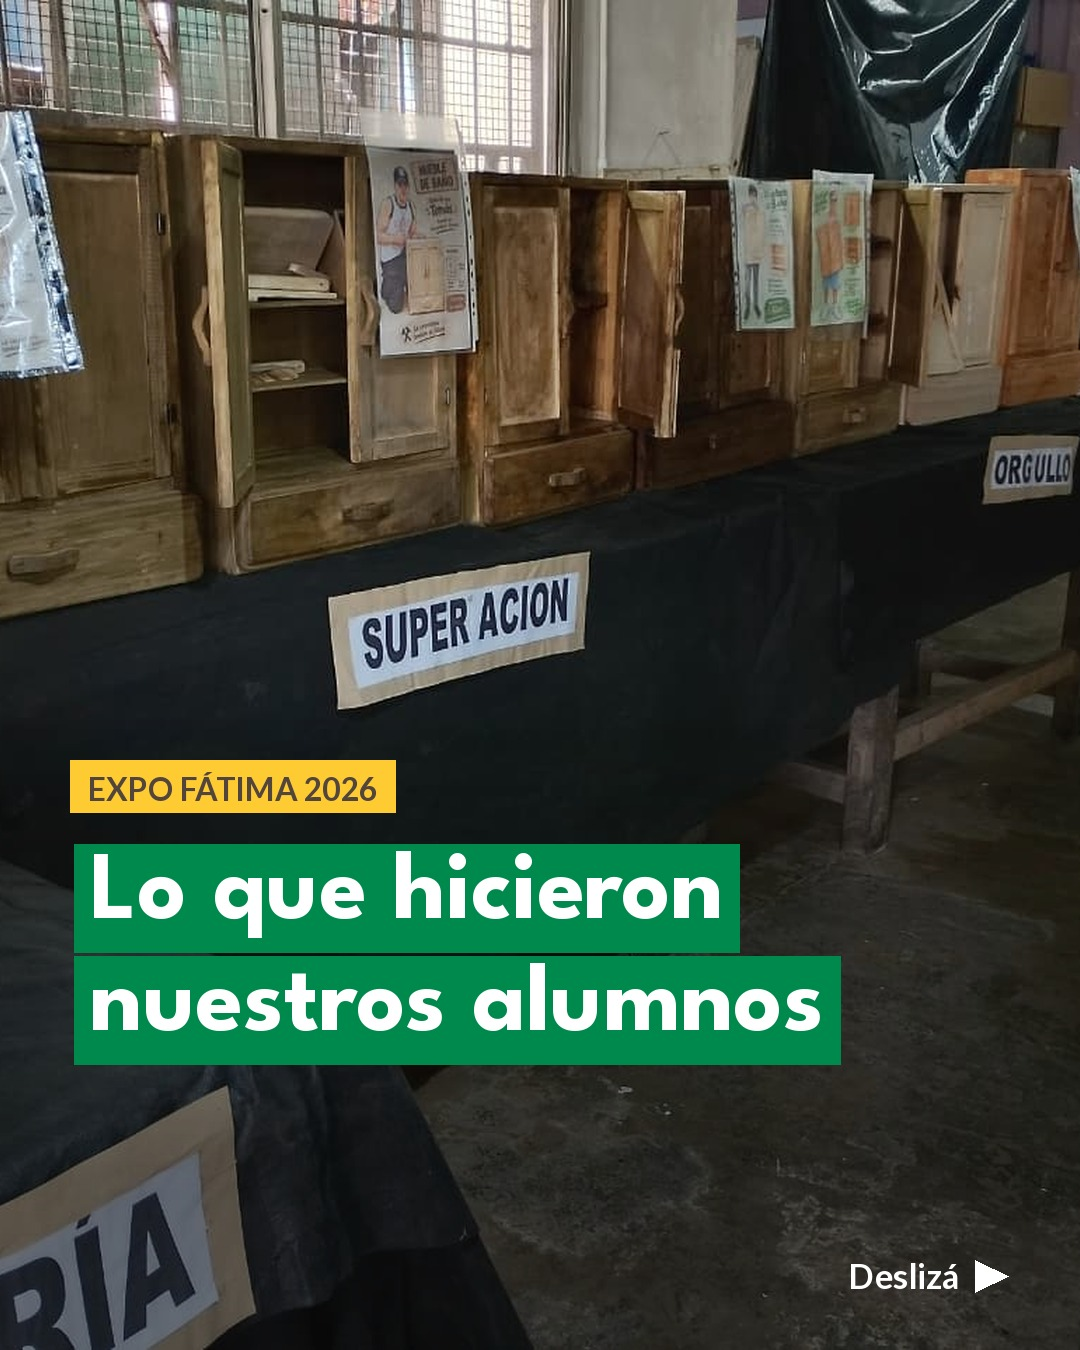
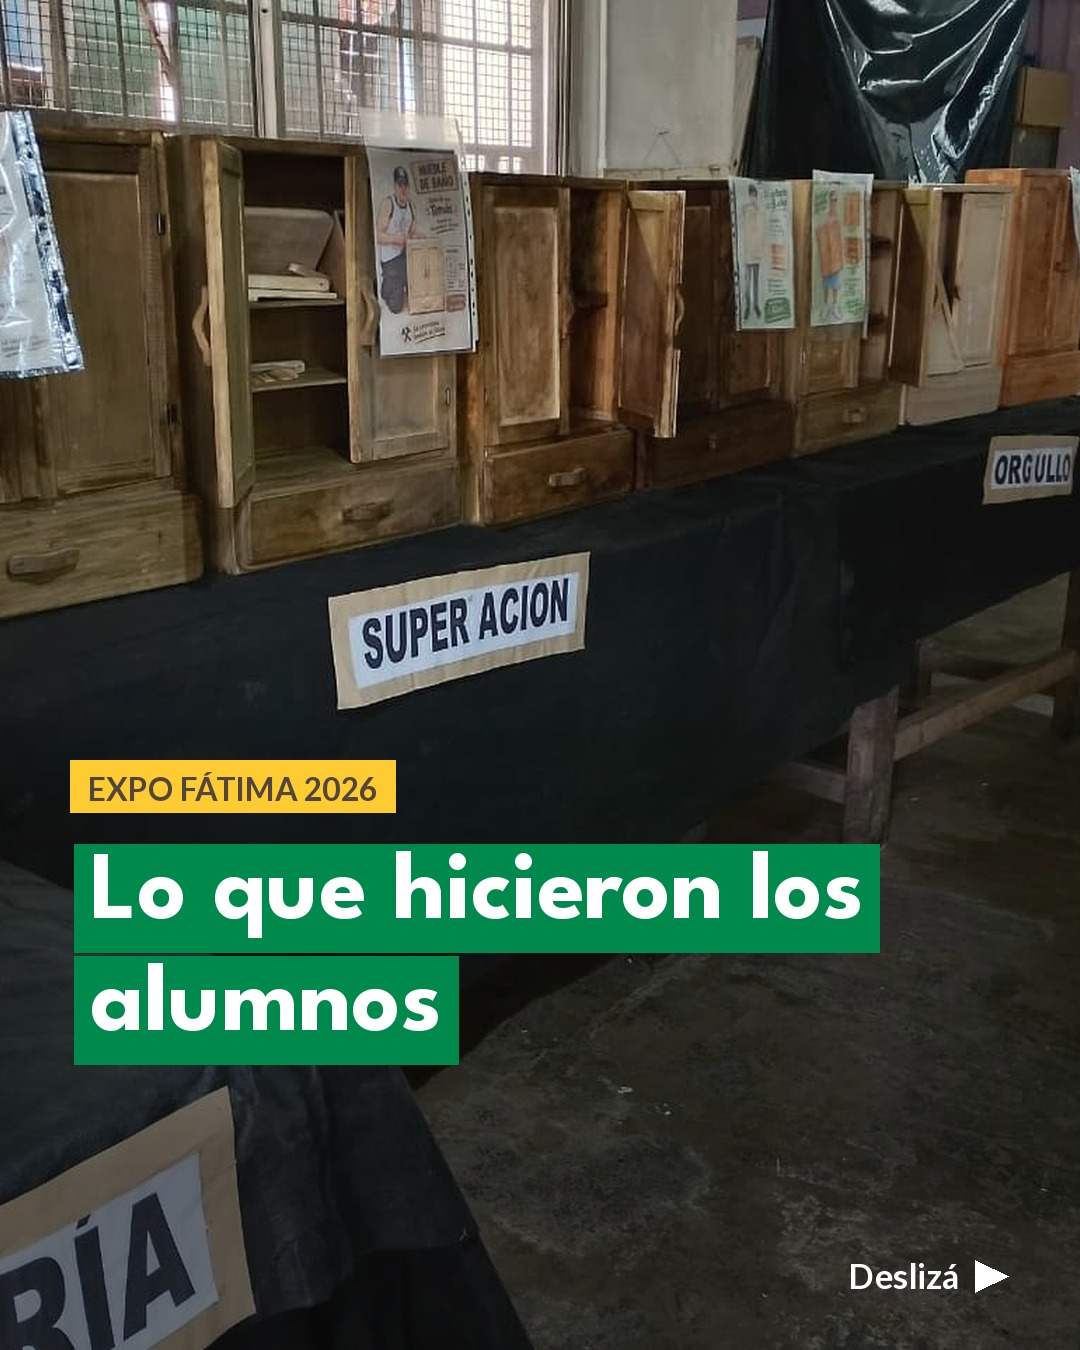
Fátima: cambios carrusel trabajos (los alumnos, sin Orgullo de Fátima)
Claude-Session: https://claude.ai/code/session_01A1E79ha6BujniUrQ7LXZ3T

Changed region(s): [[0.0917, 0.6222, 0.825, 0.8089]]

diff --git a/clientes/tallerfatima/plan/index.html b/clientes/tallerfatima/plan/index.html
@@ -63,7 +63,7 @@ footer a{color:var(--agua)}
     <div>
       <h1>Publicaciones para aprobar</h1>
       <p>Estas son las piezas preparadas para <strong>@escuelatallerfatima</strong>, con día, hora y texto. Están hechas con fotos y videos del banco de la escuela y con los colores y tipografías del manual de marca. <strong>Nada se publica sin aprobación.</strong> Lo que aprueben sale solo a la hora indicada.</p>
-      <div class="upd" id="upd">Última actualización: viernes 20/11/2026 · 16:55 h</div>
+      <div class="upd" id="upd">Última actualización: viernes 20/11/2026 · 23:25 h</div>
     </div>
     <aside class="how">
       <h2>Cómo aprobar</h2>

diff --git a/clientes/tallerfatima/herramientas/expo_semana.py b/clientes/tallerfatima/herramientas/expo_semana.py
@@ -32,14 +32,14 @@ def placa_polaroid(foto, frase, salida, n=None, ang=-3, centro=(0.5, 0.45)):
     c.save(salida, quality=92)
 
 # Viernes 20: trabajos de los alumnos
-a.portada(f"{E}/muebles-alumnos.jpg", "EXPO FÁTIMA 2026", "Lo que hicieron nuestros alumnos",
+a.portada(f"{E}/muebles-alumnos.jpg", "EXPO FÁTIMA 2026", "Lo que hicieron los alumnos",
           "Muebles, piezas y proyectos hechos en los talleres durante todo el año.", f"{O}/expo-trabajos-1.jpg")
 placa_polaroid(f"{C}/cuadro-040.0.jpg", "El taller de carpintería, abierto para todos.", f"{O}/expo-trabajos-2.jpg", "2/7", -3)
 placa_polaroid(f"{C}/cuadro-042.0.jpg", "Muebles terminados, listos para mostrar.", f"{O}/expo-trabajos-3.jpg", "3/7", 3)
 a.foto_con_texto(f"{E}/muestra-carpinteria-mesa.jpg", "Lámparas, macetas y estantes hechos a mano.", f"{O}/expo-trabajos-4.jpg", "4/7", (0.4, 0.4))
 placa_polaroid(f"{C}/cuadro-051.0.jpg", "Las máquinas del taller, en manos de los alumnos.", f"{O}/expo-trabajos-5.jpg", "5/7", -2)
 placa_polaroid(f"{C}/cuadro-053.0.jpg", "Profes y alumnos contando cómo se trabaja.", f"{O}/expo-trabajos-6.jpg", "6/7", 3)
-a.cierre("Orgullo de Fátima", "Detrás de cada pieza hay horas de trabajo, aprendizaje y superación.", f"{O}/expo-trabajos-7.jpg")
+a.cierre("Cada pieza, una historia", "Detrás de cada pieza hay horas de trabajo, aprendizaje y superación.", f"{O}/expo-trabajos-7.jpg")
 
 # Sábado 21: comunidad, stands e historia
 a.portada(f"{E}/stand-grupo-sonriendo.jpg", "EXPO FÁTIMA 2026", "Una Expo para toda la comunidad",

diff --git a/clientes/tallerfatima/herramientas/tapas_variadas.py b/clientes/tallerfatima/herramientas/tapas_variadas.py
@@ -94,7 +94,7 @@ def tapa_collage(fotos, chico, titulo, salida):
     c.save(salida, quality=92)
 
 if __name__ == "__main__":
-  tapa_resaltada(f"{E}/muebles-alumnos.jpg", "EXPO FÁTIMA 2026", "Lo que hicieron nuestros alumnos", f"{O}/expo-trabajos-1.jpg", (0.5, 0.5))
+  tapa_resaltada(f"{E}/muebles-alumnos.jpg", "EXPO FÁTIMA 2026", "Lo que hicieron los alumnos", f"{O}/expo-trabajos-1.jpg", (0.5, 0.5))
   tapa_tarjeta(f"{E}/stand-grupo-sonriendo.jpg", "EXPO FÁTIMA 2026", "Una Expo para toda la comunidad",
              "Stands, emprendimientos, historia y mucha gente compartiendo el día.", f"{O}/expo-comunidad-1.jpg", (0.5, 0.4))
   tapa_bn(f"{E}/foto-grupal-carpinteria.jpg", "¡Gracias!",
